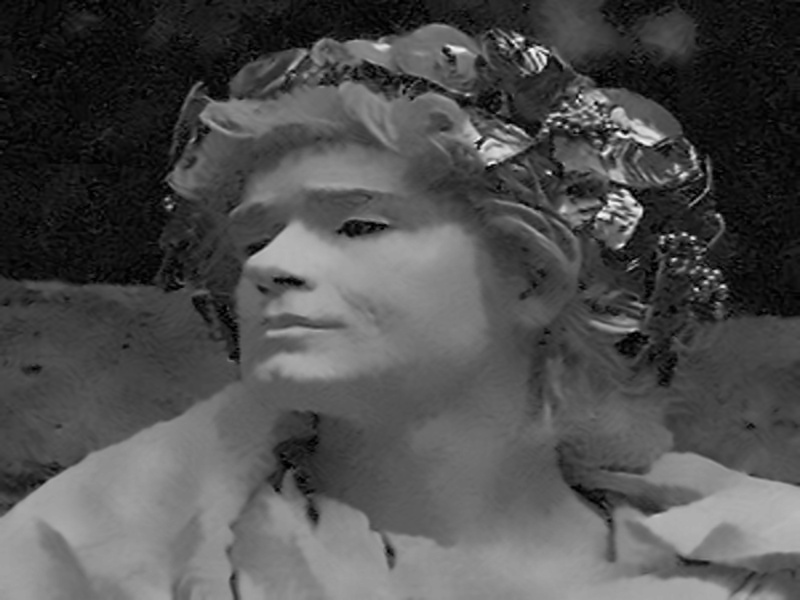
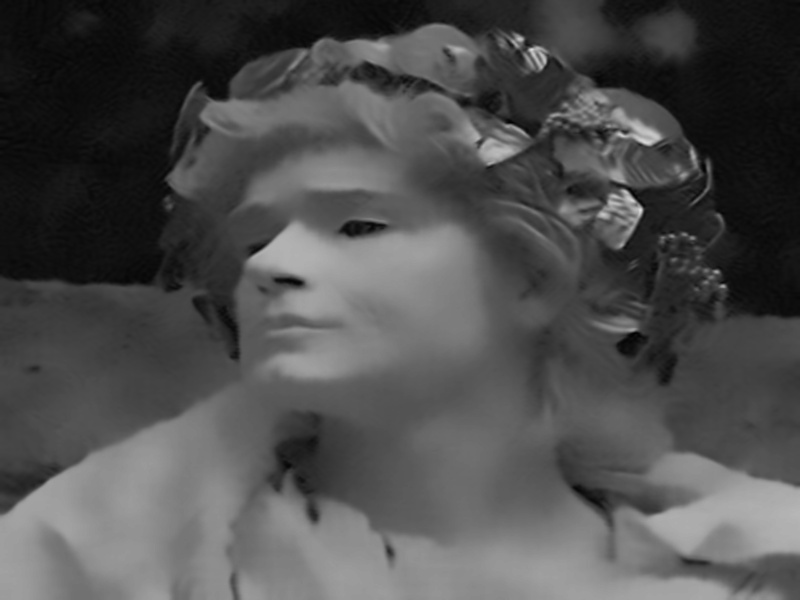
fixing some problem

diff --git a/main.py b/main.py
@@ -6,7 +6,7 @@ import matplotlib.pyplot as plt
 plt.ion()
 
 def ImageRezize(images_folder, size=(800, 600)):
-    images = [os.path.join(images_folder, f) for f in os.listdir(images_folder) if f.endswith(('.jpg', '.png'))]
+    images = [os.path.join(images_folder, f) for f in os.listdir(images_folder) if f.endswith(('.jpg', '.png', '.jpeg')) and '_resized' not in f]
     resized_paths = []
     for image_path in images:
         image = Image.open(image_path)
@@ -26,30 +26,37 @@ def denoise_and_save(image_path, output_folder):
     noisy_image = cv2.cvtColor(noisy_image, cv2.COLOR_BGR2RGB)
 
     median_denoised_image = cv2.medianBlur(noisy_image, 9)
-    nlm_denoised_image = cv2.fastNlMeansDenoisingColored(noisy_image, None, 15, 15, 9, 30)
+    bilateral_denoised_image = cv2.bilateralFilter(noisy_image, 15, 100, 100)
+    nlm_denoised_image = cv2.fastNlMeansDenoisingColored(noisy_image, None, 25, 25, 11, 35)
 
     base_name = os.path.basename(image_path)
     name, ext = os.path.splitext(base_name)
     
     median_output = os.path.join(output_folder, f"{name}_median_denoised{ext}")
+    bilateral_output = os.path.join(output_folder, f"{name}_bilateral_denoised{ext}")
     nlm_output = os.path.join(output_folder, f"{name}_nlm_denoised{ext}")
     
     cv2.imwrite(median_output, cv2.cvtColor(median_denoised_image, cv2.COLOR_RGB2BGR))
+    cv2.imwrite(bilateral_output, cv2.cvtColor(bilateral_denoised_image, cv2.COLOR_RGB2BGR))
     cv2.imwrite(nlm_output, cv2.cvtColor(nlm_denoised_image, cv2.COLOR_RGB2BGR))
     
-    print(f"Denoised images saved: {median_output}, {nlm_output}")
+    print(f"Denoised images saved: {median_output}, {bilateral_output}, {nlm_output}")
     
     # Display
-    plt.figure(figsize=(12, 8))
-    plt.subplot(1, 3, 1)
+    plt.figure(figsize=(16, 4))
+    plt.subplot(1, 4, 1)
     plt.title('Noisy Image')
     plt.imshow(noisy_image)
     plt.axis('off')
-    plt.subplot(1, 3, 2)
+    plt.subplot(1, 4, 2)
     plt.title('Median Filter Denoising')
     plt.imshow(median_denoised_image)
     plt.axis('off')
-    plt.subplot(1, 3, 3)
+    plt.subplot(1, 4, 3)
+    plt.title('Bilateral Filter Denoising')
+    plt.imshow(bilateral_denoised_image)
+    plt.axis('off')
+    plt.subplot(1, 4, 4)
     plt.title('Non-Local Means Denoising')
     plt.imshow(nlm_denoised_image)
     plt.axis('off')
